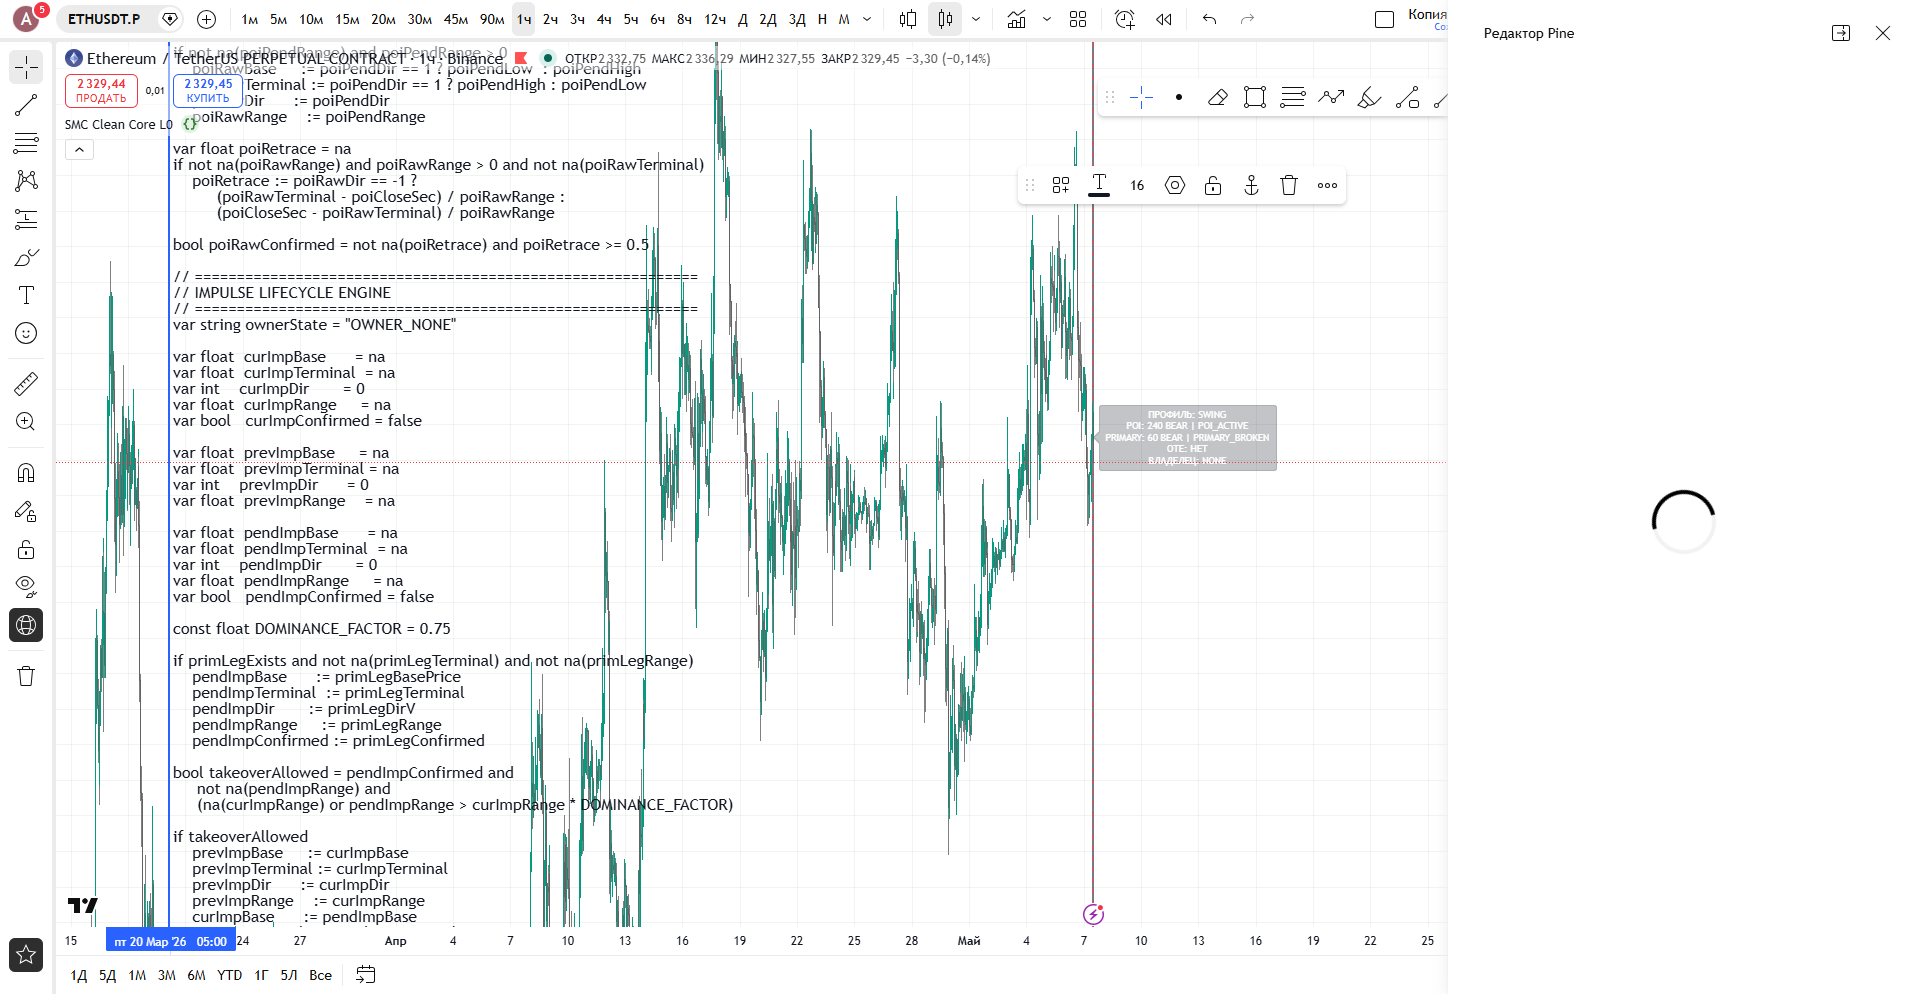
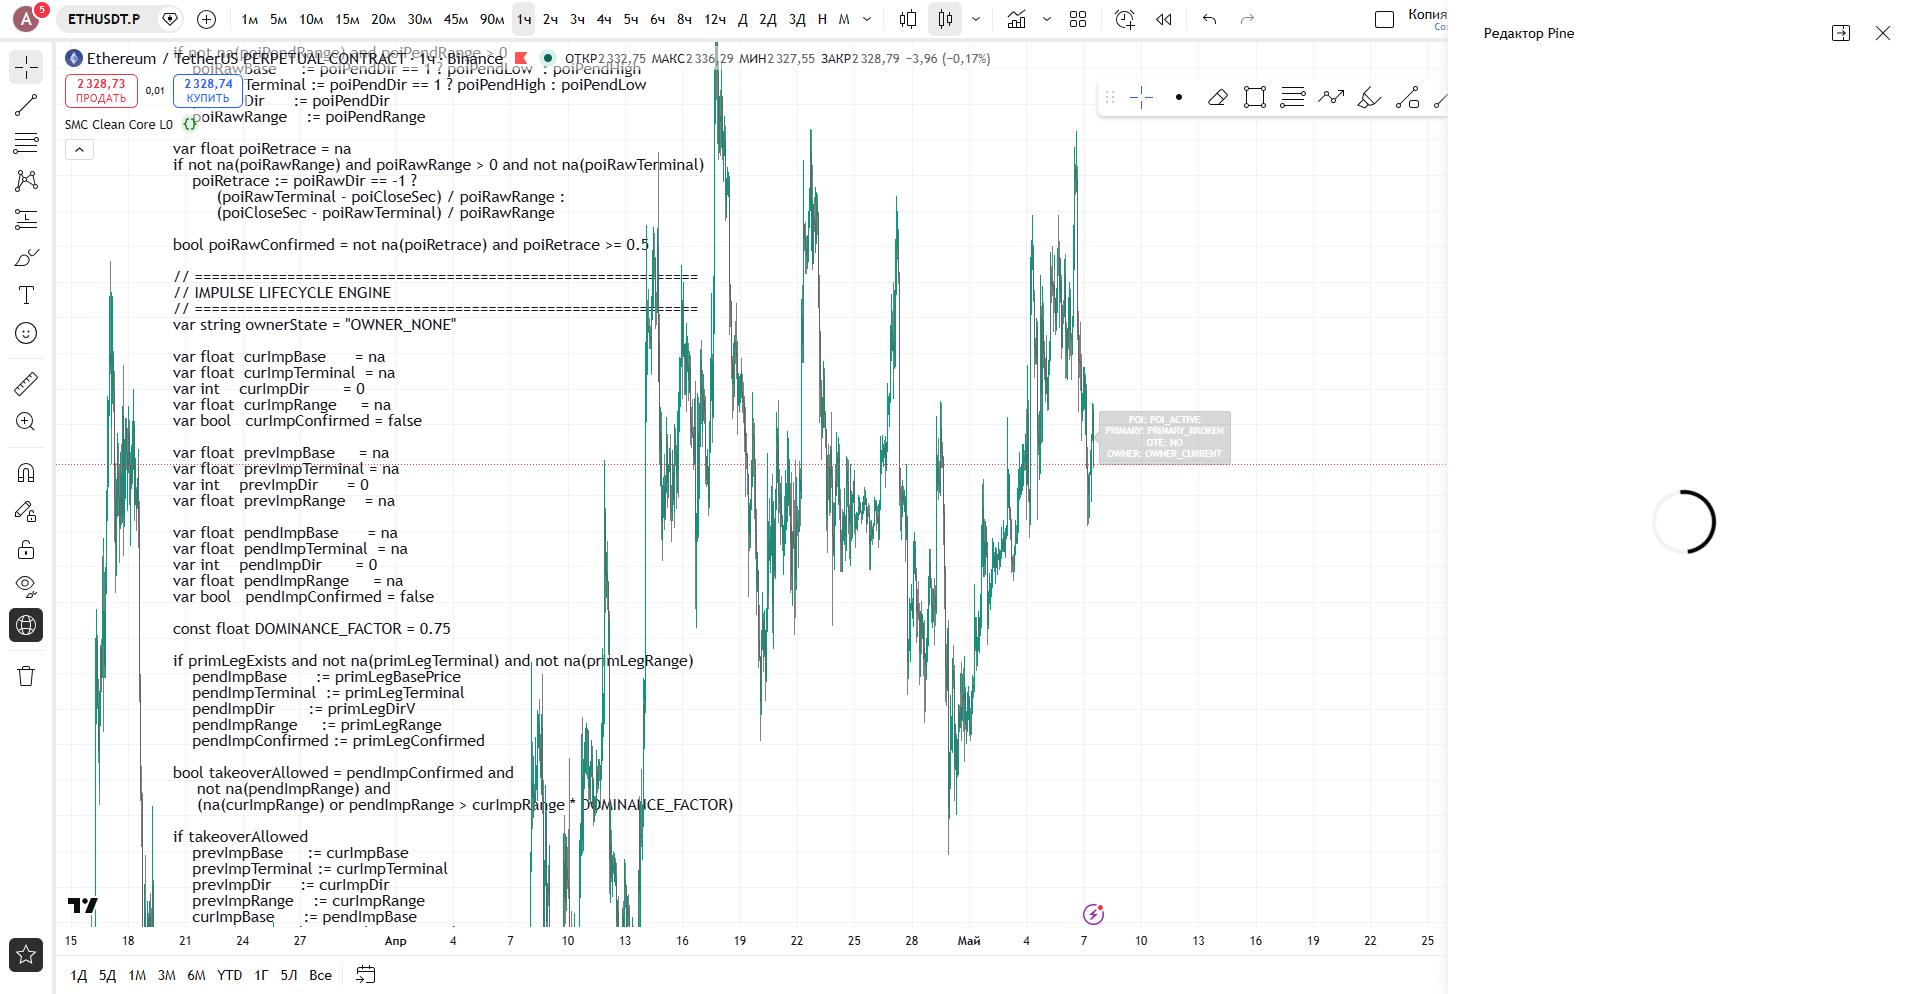
CLEAN-33 setup complete: autonomous cycle, scanner, session state

diff --git a/SESSION_STATE.md b/SESSION_STATE.md
@@ -1,9 +1,39 @@
 # Текущий статус проекта
-Последний CLEAN: 33
+
+## Последний CLEAN
+Номер: 33
 Дата: 2026-05-07
-ETH POI: POI_ACTIVE
-ETH PRIMARY: PRIMARY_LOCKED
-Визуализация работает: NO (индикатор не добавлен на график)
-Последний paste URL: https://dpaste.com/595MZYTDV
-Последний imgur URL: недоступен (imgur API заблокирован)
-Следующий шаг: Добавить индикатор на график вручную через меню TradingView
+Время: 09:32 UTC
+
+## Состояние индикатора
+Версия: 26.0
+Компиляция: SUCCESS
+Добавлен на график: NO (требуется ручное добавление)
+
+## Визуализация
+ETH 1H POI: POI_ACTIVE (ожидается)
+ETH 1H PRIMARY: PRIMARY_LOCKED (ожидается)
+ETH 1H OTE: неизвестно (индикатор не на графике)
+Линий на графике: 0 (индикатор не добавлен)
+Визуализация работает: NO
+
+## Последние URL
+Код: https://dpaste.com/595MZYTDV
+Скриншот: D:\SMC_PROJECT_CLEAN\latest_screenshot.png
+Imgur: недоступен (API заблокирован)
+
+## Git
+Последний коммит: 4f8c851
+Ветка: main
+Статус: синхронизирован с remote
+
+## Следующий шаг
+Добавить индикатор на график вручную через TradingView → Indicators → My Scripts → "SMC Clean Core L0"
+После добавления проверить визуализацию на ETH 1H
+Если визуализация корректна → запустить scanner на 5 инструментах
+Если DOD выполнен → начать Layer 2
+
+## Проблемы
+1. TradingView не добавляет индикатор автоматически после компиляции
+2. Imgur API возвращает "forbidden" ошибку
+3. Pine Editor clipboard issue (resolved via dpaste workaround)
